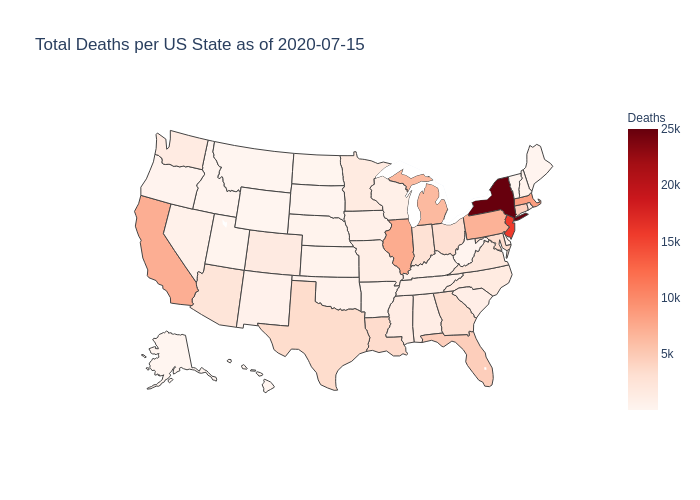
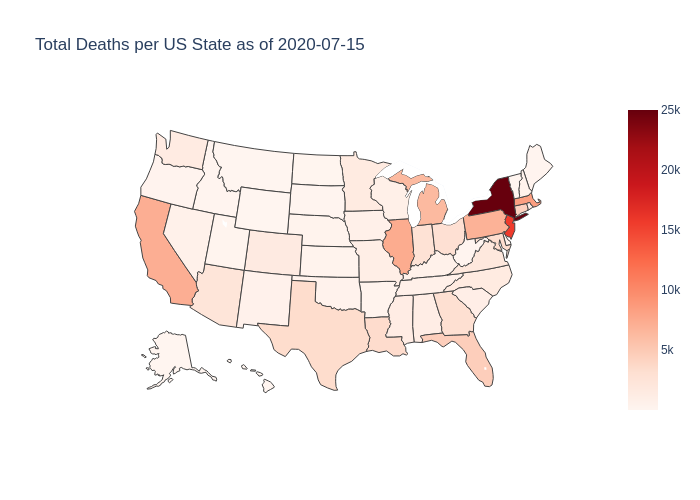
Added more US maps and started linear regression

diff --git a/02-descriptive_choropleth.py b/02-descriptive_choropleth.py
@@ -6,6 +6,13 @@ import pandas as pd
 DATA_PATH = 'output/'
 IMAGE_PATH = 'images/'
 FILE = 'total_cases_with_socioecon.csv'
+scope = PlotlyScope()
+
+
+def get_latest_date(date_df):
+    current_date = str(date_df.values[0])
+    current_date = dt.datetime.strptime(current_date, '%Y%m%d').date().isoformat()
+    return current_date
 
 
 def read_data():
@@ -14,40 +21,80 @@ def read_data():
 
 
 def set_data_set(covid_df):
-    map_features = ['state', 'death', 'pop_density', 'cdc_svi_overall_ranking', 'date']
+    map_features = ['state', 'death', 'pop_density', 'cdc_svi_overall_ranking', 'et_over_60_population', 'date']
     covid_df = covid_df[map_features]
     return covid_df
 
-def map_features(covid_df):
+def plot_deaths(covid_df):
 
-    current_date = str(covid_df['date'].values[0])
-    current_date = dt.datetime.strptime(current_date, '%Y%m%d').date().isoformat()
-
-    scope = PlotlyScope()
+    current_date = get_latest_date(covid_df['date'])
 
     fig = go.Figure(data=go.Choropleth(
-        locations=covid_df['state'],  # Spatial coordinates
-        z=covid_df['death'].astype(int),  # Data to be color-coded
-        locationmode='USA-states',  # set of locations match entries in `locations`
+        locations=covid_df['state'],
+        z=covid_df['death'].astype(int),
+        locationmode='USA-states',
         colorscale='Reds',
-        colorbar_title="Deaths",
+        # colorbar_title="Deaths",
         # marker_line_color='white'
     ))
 
     fig.update_layout(
         title_text='Total Deaths per US State as of ' + current_date,
-        geo_scope='usa',  # limite map scope to USA
+        geo_scope='usa',
     )
 
     with open(IMAGE_PATH + "deaths_us_map.png", "wb") as file:
         file.write(scope.transform(fig, format="png"))
 
 
+def plot_death_per_population_over_60(covid_df):
+
+    covid_df['death_by_population'] = covid_df['death'] / covid_df['et_over_60_population']
+    current_date = get_latest_date(covid_df['date'])
+
+    fig = go.Figure(data=go.Choropleth(
+        locations=covid_df['state'],
+        z=covid_df['death_by_population'].astype(float),
+        locationmode='USA-states',
+        colorscale='Reds',
+    ))
+
+    fig.update_layout(
+        title_text='Deaths per Pop Over 60 as of ' + current_date,
+        geo_scope='usa',
+    )
+
+    with open(IMAGE_PATH + "deaths_per_over_60_map.png", "wb") as file:
+        file.write(scope.transform(fig, format="png"))
+
+
+def plot_death_per_population_density(covid_df):
+
+    covid_df['death_by_density'] = covid_df['death'] / covid_df['pop_density']
+    current_date = get_latest_date(covid_df['date'])
+
+    fig = go.Figure(data=go.Choropleth(
+        locations=covid_df['state'],
+        z=covid_df['death_by_density'].astype(float),
+        locationmode='USA-states',
+        colorscale='Reds',
+    ))
+
+    fig.update_layout(
+        title_text='Deaths per Square Mile (Population Density) ' + current_date,
+        geo_scope='usa',
+    )
+
+    with open(IMAGE_PATH + "deaths_per_pop_density.png", "wb") as file:
+        file.write(scope.transform(fig, format="png"))
+
 def main():
 
     covid_df = read_data()
     covid_df = set_data_set(covid_df)
-    map_features(covid_df)
+    plot_deaths(covid_df)
+    plot_death_per_population_over_60(covid_df)
+    plot_death_per_population_density(covid_df)
 
 
 if __name__ == '__main__':

diff --git a/03-regression.py b/03-regression.py
@@ -1,0 +1,73 @@
+from scipy import stats
+import matplotlib.pyplot as plt
+import pandas as pd
+
+
+DATA_PATH = 'output/'
+IMAGE_PATH = 'images/linear_regression/'
+FILE = 'total_cases_with_socioecon.csv'
+
+
+def read_data():
+    covid_df = pd.read_csv(DATA_PATH + FILE)
+    return covid_df
+
+
+def select_variables(covid_df):
+
+    dependent_variable = ['death']
+
+    independent_variables = [
+        'pop_density',
+        'cdc_svi_overall_ranking',
+        'em_total_households_with_income_mean_earnings',
+        'em_total_pop_median_age',
+        'et_over_60_population',
+        'em_over_60_pop_median_age',
+        'e_total_housing_units_more_than_one_occupant_per_room',
+        'e_total_pop_poverty_status_below_100_percent',
+        'e_total_pop_over_60_responsible_for_grandchildren_live_together',
+        'e_over_60_pop_employment_status_in_civilian_labor_force',
+        'e_over_60_pop_poverty_status_below_100_percent',
+    ]
+
+    covid_df = covid_df[independent_variables + dependent_variable]
+    return covid_df
+
+
+def check_linearity(covid_df):
+    dependent = list(covid_df.columns)
+    dependent.remove('death')
+
+    for variable in dependent:
+        plt.figure(figsize=(24, 8))
+        plt.plot(covid_df[variable], covid_df['death'], 'b.', alpha=0.5)
+        plt.savefig(IMAGE_PATH + variable + ".png")
+
+
+def perform_regression(covid_df):
+    reg = stats.linregress(covid_df['pop_density'], covid_df['death'])
+    print(reg.pvalue)
+    print(reg.rvalue**2)
+
+
+def check_risidual_normality():
+    pass
+
+
+def main():
+    """
+    The assumptions for OLS are:
+    (1) The sample is representative of the population.
+    (2) The relationship between the variables is linear.
+    (3) The residuals are normally distributed and iid.
+    """
+
+    covid_df = read_data()
+    covid_df = select_variables(covid_df)
+    check_linearity(covid_df)
+    perform_regression(covid_df)
+
+
+if __name__ == '__main__':
+    main()

diff --git a/01-clean_data.py b/01-clean_data.py
@@ -99,13 +99,25 @@ def socio_econ_grouped_by_state(data_store_df):
 
     socio_econ_headers = list(socio_econ_df.columns)
     socio_econ_headers.remove('cdc_svi_overall_ranking')
+    socio_econ_headers.remove('em_total_pop_median_age')
     socio_econ_headers.remove('pop_density')
+    socio_econ_headers.remove('em_total_housing_units_avg_household_size_owned')
 
-    socio_econ_avg_df = socio_econ_df.groupby('state')[['cdc_svi_overall_ranking', 'pop_density']].agg('mean')
+    socio_econ_headers_to_average = [
+        'cdc_svi_overall_ranking',
+        'em_total_pop_median_age',
+        'pop_density',
+        'em_total_housing_units_avg_household_size_owned'
+    ]
+
+    socio_econ_avg_df = socio_econ_df.groupby('state')[socio_econ_headers_to_average].agg('mean')
     socio_econ_total_df = socio_econ_df.groupby('state')[socio_econ_headers].agg('sum')
-
     socio_econ_df = socio_econ_total_df.merge(socio_econ_avg_df, how='left', on='state')
+
+    socio_econ_over_60_avg_df = socio_econ_over_60_df.groupby('state')['em_over_60_pop_median_age'].agg('mean')
+    socio_econ_over_60_df = socio_econ_over_60_df.drop('em_over_60_pop_median_age', axis=1)
     socio_econ_over_60_df = socio_econ_over_60_df.groupby('state').agg('sum')
+    socio_econ_over_60_df = socio_econ_over_60_df.merge(socio_econ_over_60_avg_df, how='left', on='state')
 
     data_store_df['daily socioecon'] = socio_econ_df
     data_store_df['daily socioecon over 60'] = socio_econ_over_60_df
